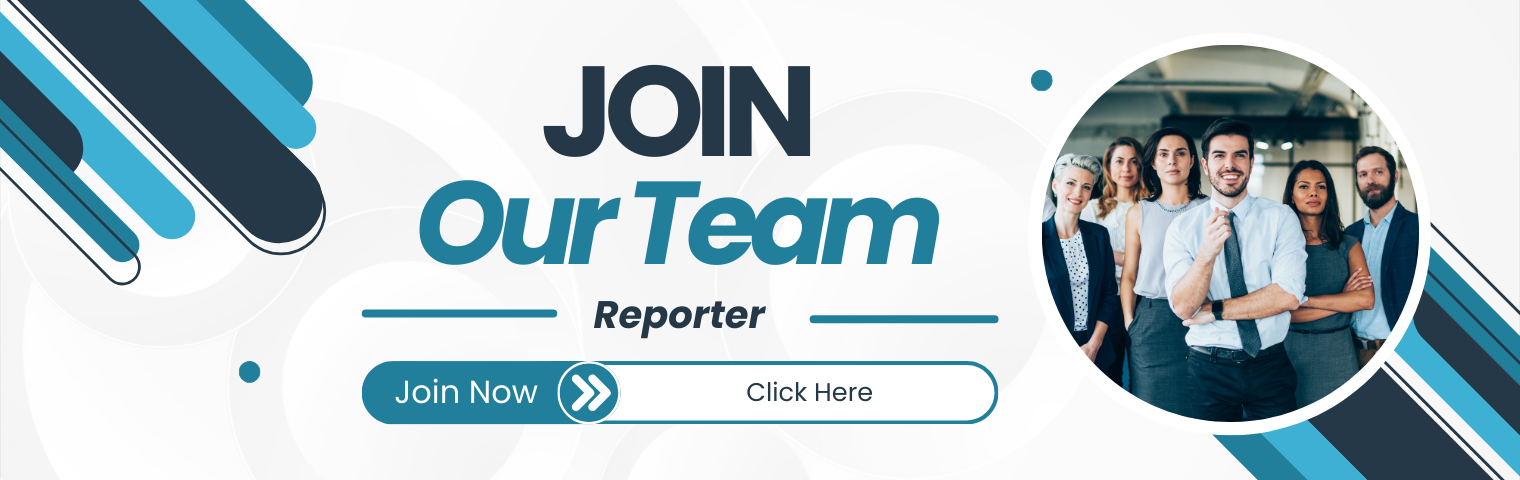
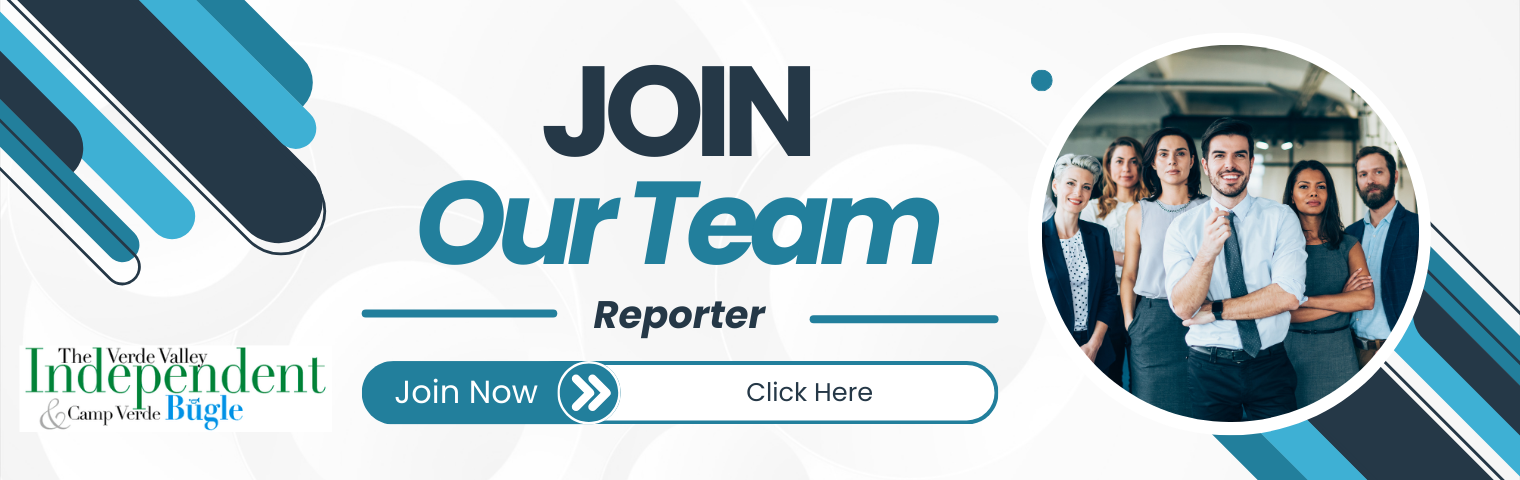
update images

Changed region(s): [[0.0, 0.7188, 0.2164, 0.9062]]

diff --git a/easyFullWidth copy.html b/easyFullWidth copy.html
@@ -1,37 +1,63 @@
-
-<link href='https://fonts.googleapis.com/css?family=Droid+Sans:400,700' rel='stylesheet' type='text/css'>
+<link href="https://fonts.googleapis.com/css?family=Droid+Sans:400,700" rel="stylesheet" type="text/css">
 <link href="https://westernnews.github.io/allinoneslider/allinone_bannerWithPlaylist.css" rel="stylesheet" type="text/css">
 <link href="https://westernnews.github.io/allinoneslider/text_classes.css" rel="stylesheet" type="text/css">
 
 <style type="text/css">
-body {
-margin:0px;
-padding:0px;
-width: 100%;
-overflow-x: hidden;
-}
+	body {
+		margin: 0px;
+		padding: 0px;
+		width: 100%;
+		overflow-x: hidden;
+	}
 
-.bg_easy {
-	width: 99.9%;
-  max-height:554px;
-  height:29%;
-  background-image: url("https://westernnews.github.io/allinoneslider/images/easyFullWidth/easy-Slider-bg-1.jpg") ;
-  background-position: center bottom; /* Center the image */
-  background-repeat: no-repeat; /* Do not repeat the image */
-  background-size: cover; /* Resize the background image to cover the entire container */
-}
+	.bg_easy {
+		width: 99.9%;
+		max-height: 554px;
+		height: 29%;
+		background-image: url("https://westernnews.github.io/allinoneslider/images/easyFullWidth/easy-Slider-bg-1.jpg");
+		background-position: center bottom;
+		/* Center the image */
+		background-repeat: no-repeat;
+		/* Do not repeat the image */
+		background-size: cover;
+		/* Resize the background image to cover the entire container */
+	}
 
+	.allinone_bannerWithPlaylist.easy .thumbsHolder_ThumbOFF {
+		background: url(http://allinoneslider.com/wp-content/uploads/2019/04/bgPlaylistUnit4.png) top left repeat-x;
+	}
 
-.allinone_bannerWithPlaylist.easy .thumbsHolder_ThumbOFF{background:url(http://allinoneslider.com/wp-content/uploads/2019/04/bgPlaylistUnit4.png) top left repeat-x;}
-.allinone_bannerWithPlaylist.easy .thumbsHolder_ThumbON {background-color: rgba(0, 0, 0, 0.28); }
+	.allinone_bannerWithPlaylist.easy .thumbsHolder_ThumbON {
+		background-color: rgba(0, 0, 0, 0.28);
+	}
 
-.allinone_bannerWithPlaylist.easy .thumbsHolderWrapper {background-color: rgba(0, 0, 0, 0.25);}
-.allinone_bannerWithPlaylist.easy .thumbsHolder_ThumbOFF .title{ font:bold 16px 'Droid Sans', sans-serif; line-height: 18px; color:#f1f1f1; text-shadow: 1px 1px 1px rgba(0, 0, 0, 0.2);}
-.allinone_bannerWithPlaylist.easy .thumbsHolder_ThumbOFF .reg{font: bold 13px Arial, sans-serif; line-height:16px; color:#f1f1f1; text-shadow: 1px 1px 1px rgba(0, 0, 0, 0.2);}
+	.allinone_bannerWithPlaylist.easy .thumbsHolderWrapper {
+		background-color: rgba(0, 0, 0, 0.25);
+	}
 
-.allinone_bannerWithPlaylist.easy .thumbsHolder_ThumbON .title { color:#FFFFFF; text-shadow: 1px 1px 1px rgba(0, 0, 0, 0.2);}
-.allinone_bannerWithPlaylist.easy .thumbsHolder_ThumbON .reg{color:#FFFFFF; text-shadow: 1px 1px 1px rgba(0, 0, 0, 0.2);}
+	.allinone_bannerWithPlaylist.easy .thumbsHolder_ThumbOFF .title {
+		font: bold 16px "Droid Sans", sans-serif;
+		line-height: 18px;
+		color: #f1f1f1;
+		text-shadow: 1px 1px 1px rgba(0, 0, 0, 0.2);
+	}
 
+	.allinone_bannerWithPlaylist.easy .thumbsHolder_ThumbOFF .reg {
+		font: bold 13px Arial, sans-serif;
+		line-height: 16px;
+		color: #f1f1f1;
+		text-shadow: 1px 1px 1px rgba(0, 0, 0, 0.2);
+	}
+
+	.allinone_bannerWithPlaylist.easy .thumbsHolder_ThumbON .title {
+		color: #ffffff;
+		text-shadow: 1px 1px 1px rgba(0, 0, 0, 0.2);
+	}
+
+	.allinone_bannerWithPlaylist.easy .thumbsHolder_ThumbON .reg {
+		color: #ffffff;
+		text-shadow: 1px 1px 1px rgba(0, 0, 0, 0.2);
+	}
 </style>
 
 <script src="https://ajax.googleapis.com/ajax/libs/jquery/1.9.0/jquery.min.js" type="text/javascript"></script>
@@ -42,72 +68,75 @@ overflow-x: hidden;
 <!-- must have -->
 
 <script>
-	jQuery(function() {
-			setTimeout(function(){
-					jQuery("#allinone_bannerWithPlaylist_5").allinone_bannerWithPlaylist({
-							skin:"easy",
-							width:1920,
-							height:480,
-							width100Proc:false,
-							height100Proc:false,
-							randomizeImages: false,
-							firstImg:0,
-							numberOfStripes:20,
-							numberOfRows:5,
-							numberOfColumns:10,
-							defaultEffect:"random",
-							effectDuration:0.5,
-							autoPlay:10,
-							loop:true,
-							target:"_blank",
-							showAllControllers:true,
-							showNavArrows:true,
-							showOnInitNavArrows:true,
-							autoHideNavArrows:true,
-							showThumbs:false,
-							numberOfThumbsPerScreen:0,
-							borderWidth:0,
-							borderColor:"#transparent",
-							playlistWidth:400,
-							origThumbImgW:214,
-							origThumbImgH:128,
-							enableTouchScreen:true,
-							absUrl:"",
-							showCircleTimer:true,
-							showCircleTimerIE8IE7:false,
-							circleRadius:10,
-							circleLineWidth:4,
-							circleColor:"#ff0000",
-							circleAlpha:100,
-							behindCircleColor:"#000000",
-							behindCircleAlpha:50,
-							responsive:true,
-							responsiveRelativeToBrowser:false
-					});
-			}, 1000);
+	jQuery(function () {
+		setTimeout(function () {
+			jQuery("#allinone_bannerWithPlaylist_5").allinone_bannerWithPlaylist({
+				skin: "easy",
+				width: 1920,
+				height: 480,
+				width100Proc: false,
+				height100Proc: false,
+				randomizeImages: false,
+				firstImg: 0,
+				numberOfStripes: 20,
+				numberOfRows: 5,
+				numberOfColumns: 10,
+				defaultEffect: "random",
+				effectDuration: 0.5,
+				autoPlay: 2,
+				loop: true,
+				target: "_blank",
+				showAllControllers: true,
+				showNavArrows: true,
+				showOnInitNavArrows: true,
+				autoHideNavArrows: true,
+				showThumbs: false,
+				numberOfThumbsPerScreen: 0,
+				borderWidth: 0,
+				borderColor: "#transparent",
+				playlistWidth: 400,
+				origThumbImgW: 214,
+				origThumbImgH: 128,
+				enableTouchScreen: true,
+				absUrl: "",
+				showCircleTimer: false,
+				showCircleTimerIE8IE7: false,
+				circleRadius: 10,
+				circleLineWidth: 4,
+				circleColor: "#ff0000",
+				circleAlpha: 100,
+				behindCircleColor: "#000000",
+				behindCircleAlpha: 50,
+				responsive: true,
+				responsiveRelativeToBrowser: false,
+			});
+		}, 1000);
 	});
 </script>
 
-</head>
-
-<body bgcolor="#222222">
-
 <div class="bg_easy">
+	<div id="allinone_bannerWithPlaylist_5">
+		<ul class="allinone_bannerWithPlaylist_list">
+			<li>
+				<img src="https://westernnews.github.io/allinoneslider/images/easyFullWidth/vvn-news-editor.png" alt>
+			</li>
+			<li>
+				<img src="https://westernnews.github.io/allinoneslider/images/easyFullWidth/vvn-customer-service.png" alt>
+			</li>
+			<li>
+				<img src="https://westernnews.github.io/allinoneslider/images/easyFullWidth/vvn-reporter.png" alt>
+			</li>
+		</ul>
 
-	<div id="allinone_bannerWithPlaylist_5" style="display:none;">
+		</div>
+	</div>
 	<ul class="allinone_bannerWithPlaylist_list">
-	<li><img src="https://westernnews.github.io/allinoneslider/images/easyFullWidth/playlist-sider-easy-skin-FullWidth-0.jpg" alt="" /></li>
-	<li><img src="https://westernnews.github.io/allinoneslider/images/easyFullWidth/playlist-sider-easy-skin-FullWidth-1.jpg" alt="" /></li>
-	<li><img src="https://westernnews.github.io/allinoneslider/images/easyFullWidth/playlist-sider-easy-skin-FullWidth-2.jpg" alt="" /></li>
-
-	</ul>
-	<div id="allinone_bannerWithPlaylist_photoText73" class="allinone_bannerWithPlaylist_texts">
-	<div class="allinone_bannerWithPlaylist_text_line all_in_one_bannerWithPlaylist_textWhiteBgBlack_medium" style="z-index:99;" data-initial-left="-20" data-initial-top="288" data-final-left="62" data-final-top="288" data-duration="0.5" data-fade-start="0" data-delay="0.5"><a href="https://codecanyon.net/item/most-wanted-wordpress-plugins-pack/19718660?ref=LambertGroup" target="_blank">BUY NOW!</a></div>
-	</div>
-	</div>
-
-
-</div> <!-- class bg_easy -->
-
-</body>
-</html>
+		<li data-bottom-thumb="images/elegant/thumbs/01_elegantPlaylist.jpg" data-text-id="#allinone_bannerWithPlaylist_photoText1" data-title="Lorem Ipsum Dolor1" data-desc="Sed ut perspiciatis unde omnis iste natus error sit voluptatem accusantium doloremque hendrerit" data-link="https://codecanyon.net/user/LambertGroup" data-target="_blank"><img src="images/elegant/01_elegantPlaylist.jpg" alt="" /></li>
+		<li data-bottom-thumb="images/elegant/thumbs/02_elegantPlaylist.jpg" data-text-id="#allinone_bannerWithPlaylist_photoText2" data-title="Fusce Suscipit Risus2" data-desc="Phasellus vitae velit eu turpis consequat hendrerit. Curabitur vitae sapien libero, amet ornare lectus."><img src="images/elegant/02_elegantPlaylist.jpg" alt="" /></li>
+		<li data-bottom-thumb="images/elegant/thumbs/03_elegantPlaylist.jpg" data-text-id="#allinone_bannerWithPlaylist_photoText3" data-title="Class Aptent Taciti" data-desc="Maecenas interdum interdum enim id laoreet. Curabitur semper fermentum leo pretium eleifend."><img src="images/elegant/03_elegantPlaylist.jpg" alt="" />
+		<li data-bottom-thumb="images/elegant/thumbs/04_elegantPlaylist.jpg" data-text-id="#allinone_bannerWithPlaylist_photoText4" data-title="Maecenas Lacus Ante" data-desc="Donec hendrerit magna sit amet eros lobortis non egestas diam scelerisque. Praesent molestie."><img src="images/elegant/04_elegantPlaylist.jpg" alt="" />
+		<li data-bottom-thumb="images/elegant/thumbs/05_elegantPlaylist.jpg" data-text-id="#allinone_bannerWithPlaylist_photoText5" data-title="Lorem Ipsum Dolor" data-desc="Sed ut perspiciatis unde omnis iste natus error sit voluptatem accusantium doloremque hendrerit"><img src="images/elegant/05_elegantPlaylist.jpg" alt="" />
+		<li data-bottom-thumb="images/elegant/thumbs/06_elegantPlaylist.jpg" data-text-id="#allinone_bannerWithPlaylist_photoText6" data-title="Suscipit Risus" data-desc="Phasellus vitae velit eu turpis consequat hendrerit. Curabitur vitae sapien libero, amet ornare lectus."><img src="images/elegant/06_elegantPlaylist.jpg" alt="" />
+		</ul>
+</div>
+<!-- class bg_easy -->

diff --git a/easyFullWidth copy 2.html b/easyFullWidth copy 2.html
@@ -141,13 +141,13 @@
             data-transition=""
             data-bottom-thumb=""
             data-text-id="#allinone_bannerWithPlaylist_photoText73"
-            data-title="THE MOST WANTED WORDPRESS PLUGINS PACK"
+            data-title="Hiring: NEWS EDITOR"
             data-desc="26 and counting WordPress Plugins"
-            data-link="https://codecanyon.net/item/most-wanted-wordpress-plugins-pack/19718660?ref=LambertGroup"
+            data-link="https://westernnews.jobs/"
             data-target="_blank"
           >
             <img
-              src="images/easyFullWidth/playlist-sider-easy-skin-FullWidth-0.jpg"
+              src="https://westernnews.github.io/allinoneslider/images/easyFullWidth/vvn-news-editor.png"
               alt=""
             />
           </li>
@@ -157,11 +157,11 @@
             data-bottom-thumb=""
             data-title="01. ZOOM SLIDER"
             data-desc="comes in 3 versions: Fixed Dimensions, Full Width and Full Screen"
-            data-link="https://codecanyon.net/item/most-wanted-wordpress-plugins-pack/19718660?ref=LambertGroup"
+            data-link="https://westernnews.jobs/"
             data-target="_blank"
           >
             <img
-              src="images/easyFullWidth/playlist-sider-easy-skin-FullWidth-1.jpg"
+              src="https://westernnews.github.io/allinoneslider/images/easyFullWidth/vvn-customer-service.png"
               alt=""
             />
           </li>
@@ -171,11 +171,11 @@
             data-bottom-thumb=""
             data-title="02. ALL IN ONE SLIDER"
             data-desc="Responsive behavior, Full Width version, External URL link parameter for large image"
-            data-link="https://codecanyon.net/item/most-wanted-wordpress-plugins-pack/19718660?ref=LambertGroup"
+            data-link="https://westernnews.jobs/"
             data-target="_blank"
           >
             <img
-              src="images/easyFullWidth/playlist-sider-easy-skin-FullWidth-2.jpg"
+              src="https://westernnews.github.io/allinoneslider/images/easyFullWidth/vvn-reporter.png"
               alt=""
             />
           </li>
@@ -184,23 +184,6 @@
           id="allinone_bannerWithPlaylist_photoText73"
           class="allinone_bannerWithPlaylist_texts"
         >
-          <div
-            class="allinone_bannerWithPlaylist_text_line all_in_one_bannerWithPlaylist_textWhiteBgBlack_medium"
-            style="z-index: 99"
-            data-initial-left="-20"
-            data-initial-top="288"
-            data-final-left="62"
-            data-final-top="288"
-            data-duration="0.5"
-            data-fade-start="0"
-            data-delay="0.5"
-          >
-            <a
-              href="https://codecanyon.net/item/most-wanted-wordpress-plugins-pack/19718660?ref=LambertGroup"
-              target="_blank"
-              >BUY NOW!</a
-            >
-          </div>
         </div>
       </div>
     </div>
